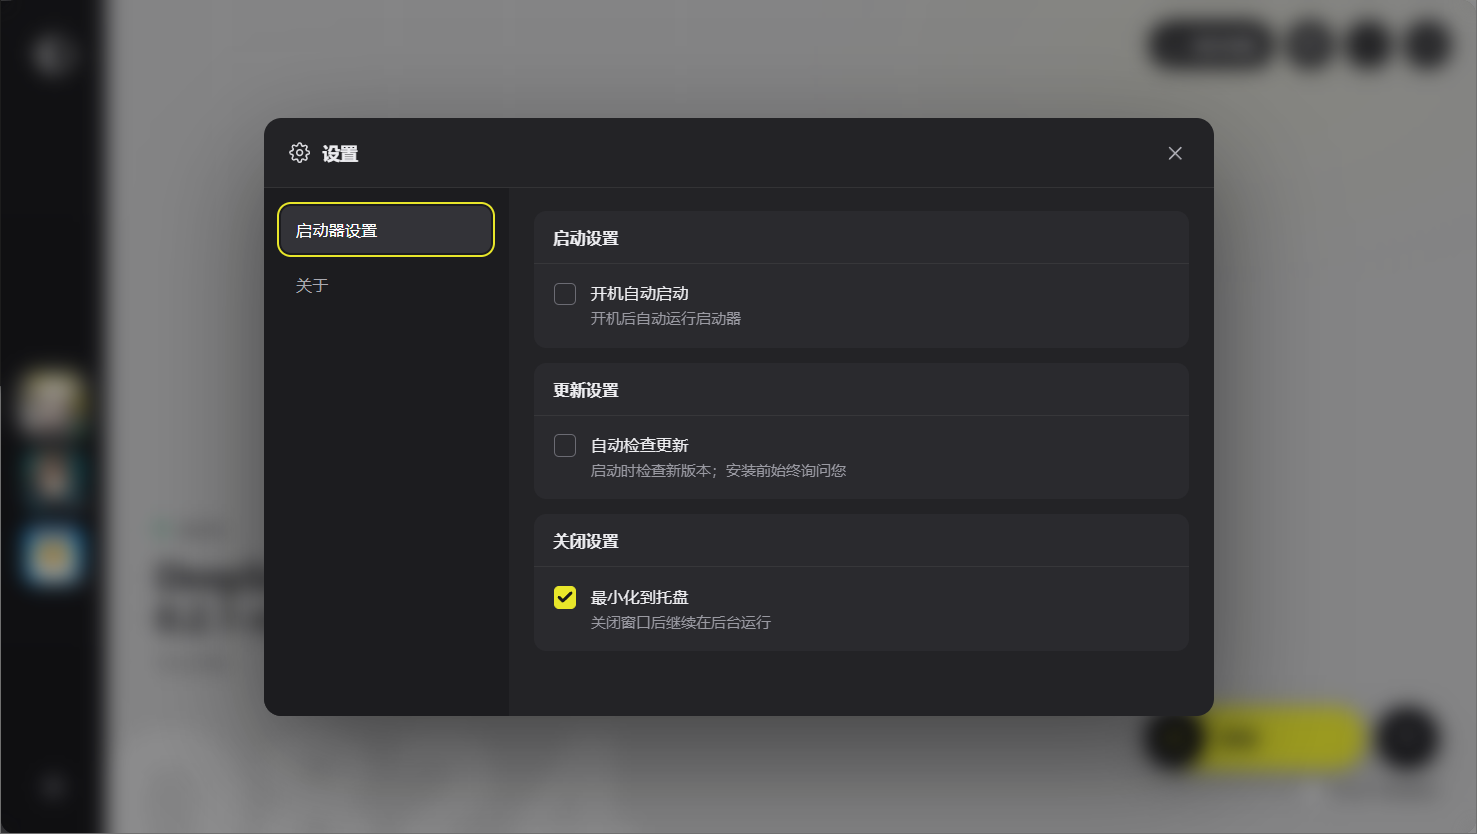
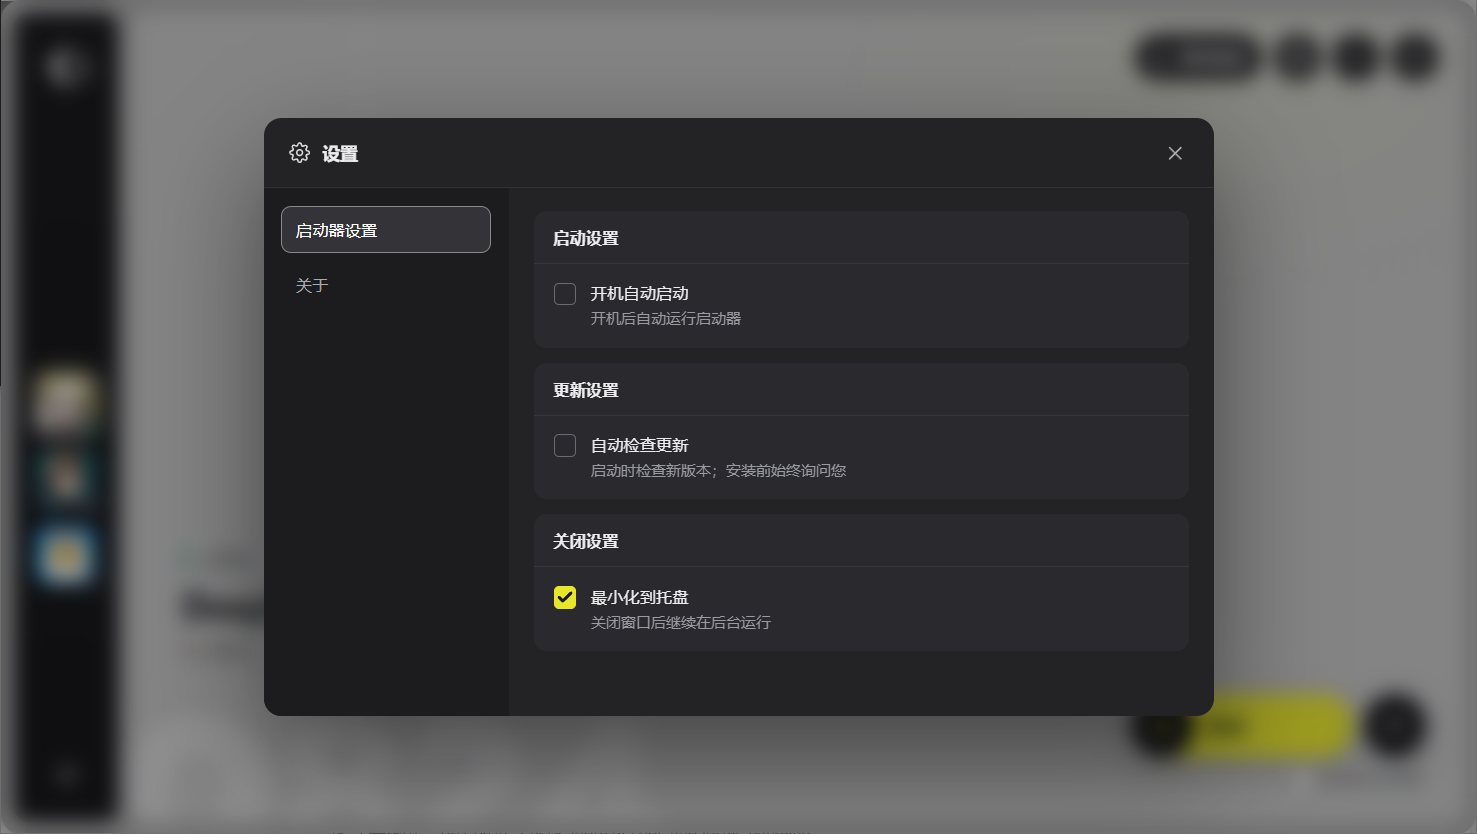
gui: the rail and the stage are two panels on a grey board
The reference does not run the black rail edge-to-edge: the window is a grey board,
and the rail and the picture are two rounded panels floating on it with a gutter
between them. The window now draws that board (10px edge, 10px gap, 16px outer
radius, 12px panels) instead of clipping one full-bleed rectangle.

The stage keeps the grey placeholder, so the frame is a slightly darker grey than
the panel — the boundary is the only thing telling them apart until the
illustration lands.

diff --git a/apps/o824-gui/dist/style.css b/apps/o824-gui/dist/style.css
@@ -14,6 +14,9 @@
   --rail: #141416;
   --chrome: rgba(23, 23, 26, 0.9);
   --stage: #c4c4c4;
+  /* The board behind the two panels. It is the window, not a third panel: the rail and
+     the stage float on it, each with its own radius, separated by a gutter of this colour. */
+  --frame: #a6a6a6;
   --font: "Segoe UI Variable Text", "Segoe UI", "Microsoft YaHei UI", "PingFang SC",
     system-ui, sans-serif;
   --mono: "Cascadia Mono", "Consolas", "SFMono-Regular", ui-monospace, monospace;
@@ -68,10 +71,12 @@ button {
   position: relative;
   display: grid;
   grid-template-columns: 84px minmax(0, 1fr);
+  gap: 10px;
   height: 100vh;
-  border-radius: 12px;
+  padding: 10px;
+  border-radius: 16px;
   overflow: hidden;
-  background: var(--rail);
+  background: var(--frame);
 }
 
 /* ------------------------------------------------------------------ rail */
@@ -83,8 +88,9 @@ button {
   flex-direction: column;
   align-items: center;
   padding: 22px 0 18px;
+  overflow: hidden;
+  border-radius: 12px;
   background: linear-gradient(180deg, #161618 0%, #121214 100%);
-  border-right: 1px solid rgba(255, 255, 255, 0.05);
 }
 
 .rail-logo {
@@ -215,6 +221,7 @@ button {
   position: relative;
   min-width: 0;
   overflow: hidden;
+  border-radius: 12px;
   background: var(--stage);
   color: var(--ink);
 }
